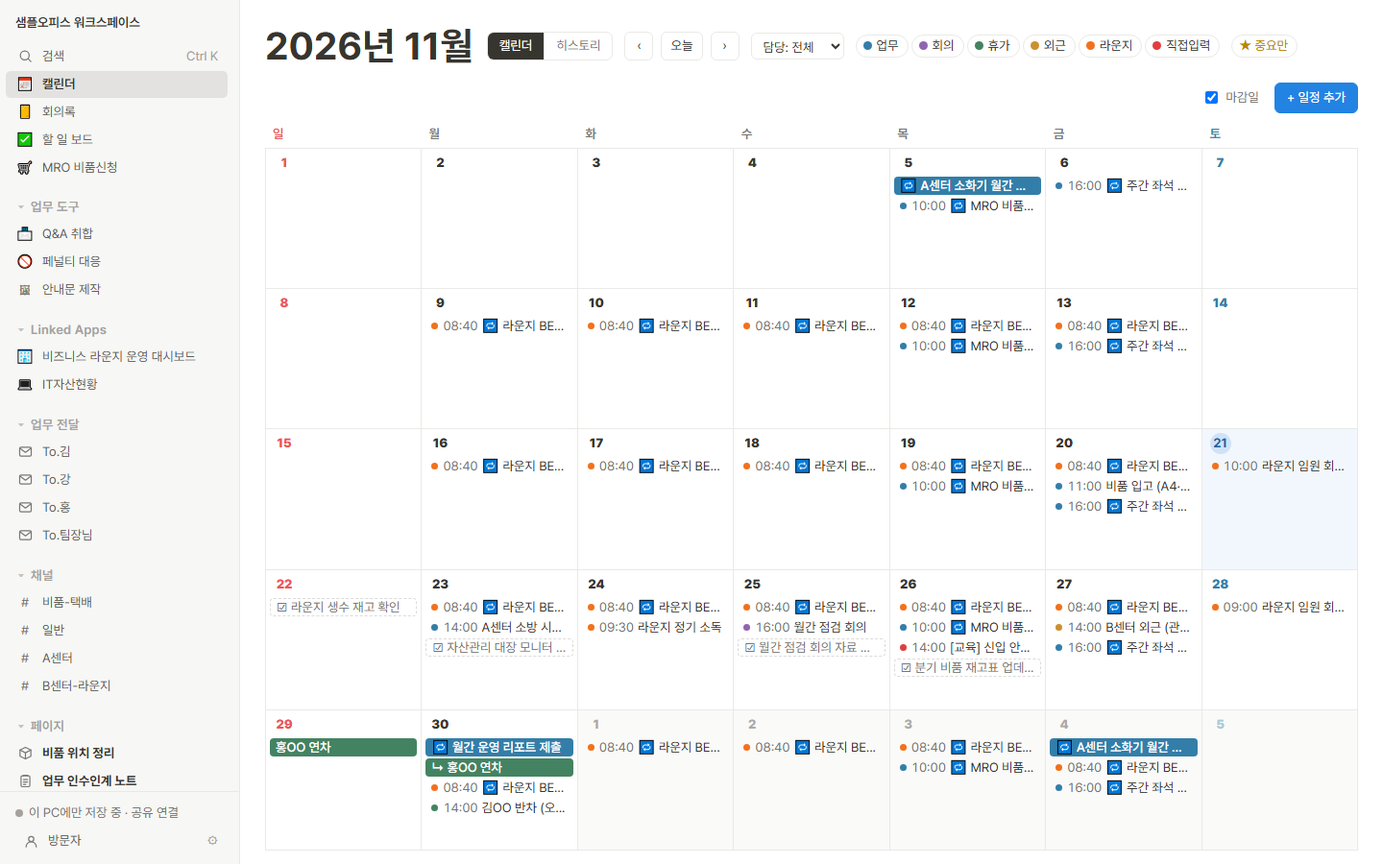
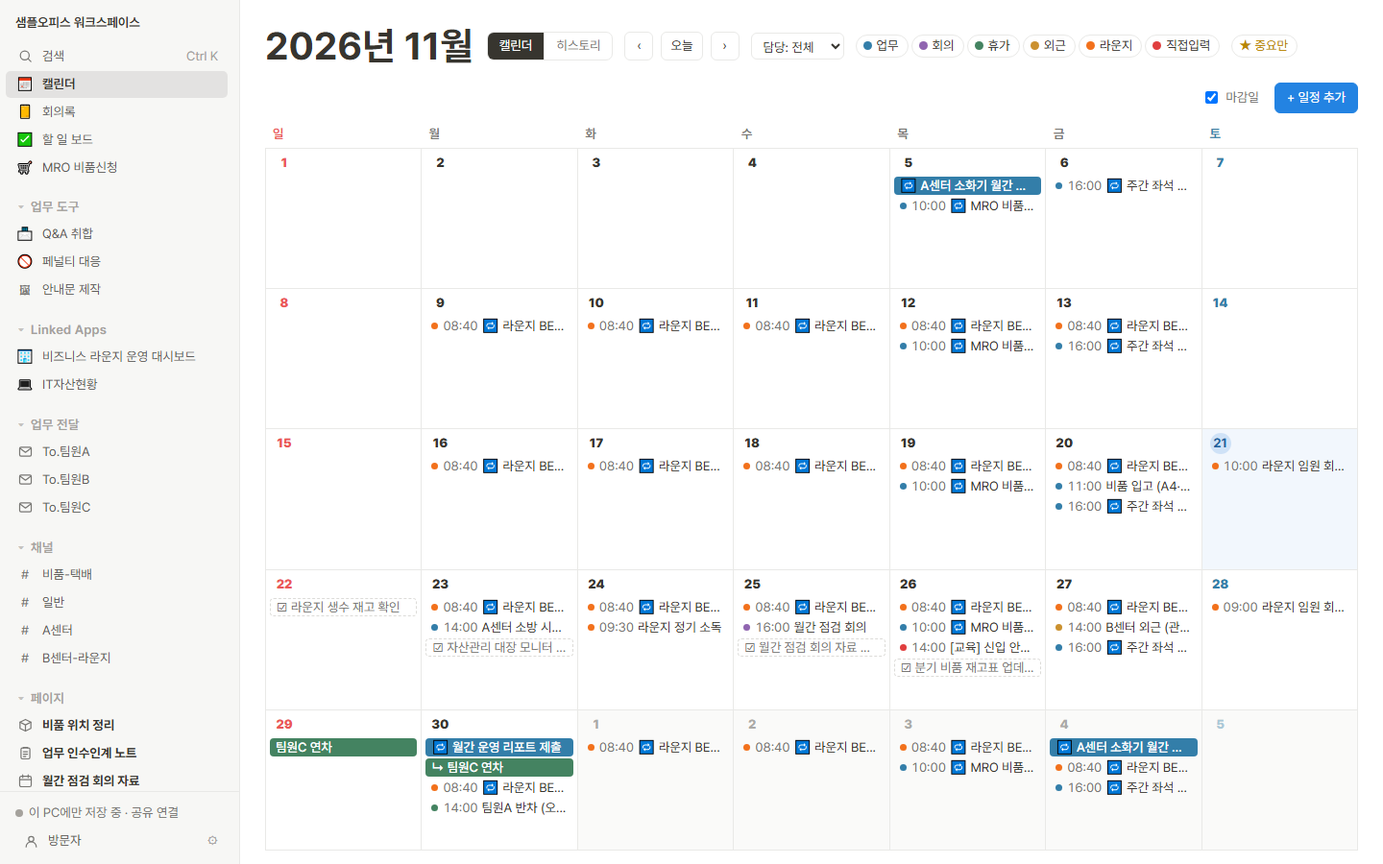
워크스페이스 데모: 업무 전달을 팀원A·B·C로, 공지 안내문 양식 빼고 캘린더 양식 색 바꾸기

diff --git a/works/workspace.html b/works/workspace.html
@@ -1147,7 +1147,7 @@ const DAY=864e5;
 function ymd(ts){const d=new Date(ts);return d.getFullYear()+'-'+String(d.getMonth()+1).padStart(2,'0')+'-'+String(d.getDate()).padStart(2,'0');}
 
 /* ---------- 데이터 모델 ---------- */
-const KEY='tw_db_v1';
+const KEY='tw_db_v2';   /* 예시 이름을 팀원A·B·C로 바꾸며 올림 — 예전 방문자의 저장본은 쓰지 않음 */
 const COLS=['channels','messages','acks','pages','tasks','spaces','notes','events','orders','qna','links','polls','pvotes','devnotes','reacts','pcomments','minutes','pens'];
 const TYPES=['text','h1','h2','bullet','num','todo','quote','callout','divider','img'];
 const SCHEMA={
@@ -1280,51 +1280,51 @@ function merge(local,remote){
 
 function seed(){
   const d=emptyDB(), t=now();
-  d.meta={wsName:'샘플오피스 워크스페이스',members:['김OO','홍OO','박팀장'],u:1};
+  d.meta={wsName:'샘플오피스 워크스페이스',members:['팀원A','팀원C','팀원D'],u:1};
   const ch=(id,name,desc)=>({id,name,desc,u:1});
   d.channels=[ch('smp_c1','일반','팀 전체 대화와 공지'),ch('smp_c2','A센터','A센터 공유오피스 운영'),ch('smp_c3','B센터-라운지','비즈니스 라운지 운영')];
   const msg=(id,c,a,text,ago,pinned)=>({id,ch:c,author:a,text,ts:t-ago,u:t-ago,pinned:!!pinned,edited:false});
   d.messages=[
-    msg('smp_m1','smp_c1','박팀장','이번 주 금요일 오후 4시에 월간 점검 회의 있습니다.\n각자 이번 달 이슈 1~2개씩 정리해 주세요.',2*DAY+36e5,true),
-    msg('smp_m2','smp_c1','김OO','네 팀장님, 정리해서 회의 전에 이 채널에 올리겠습니다.',2*DAY),
-    msg('smp_m3','smp_c2','홍OO','2번 룸 112번 좌석 모니터 전원 불량 접수됐습니다. 오늘 오후에 교체할게요.',DAY+54e5),
-    msg('smp_m4','smp_c2','홍OO','교체 완료했습니다. 기존 모니터는 창고 B 선반에 보관해 뒀어요.',DAY),
-    msg('smp_m5','smp_c3','김OO','내일 10시 대회의실 예약 건, 생수 12병 추가 요청 들어왔습니다.',5*36e5),
-    msg('smp_m6','smp_c1','박팀장','공유 폴더 경로가 바뀌었으니 다들 즐겨찾기 다시 잡아 주세요.',2*36e5,true)
+    msg('smp_m1','smp_c1','팀원D','이번 주 금요일 오후 4시에 월간 점검 회의 있습니다.\n각자 이번 달 이슈 1~2개씩 정리해 주세요.',2*DAY+36e5,true),
+    msg('smp_m2','smp_c1','팀원A','네, 정리해서 회의 전에 이 채널에 올리겠습니다.',2*DAY),
+    msg('smp_m3','smp_c2','팀원C','2번 룸 112번 좌석 모니터 전원 불량 접수됐습니다. 오늘 오후에 교체할게요.',DAY+54e5),
+    msg('smp_m4','smp_c2','팀원C','교체 완료했습니다. 기존 모니터는 창고 B 선반에 보관해 뒀어요.',DAY),
+    msg('smp_m5','smp_c3','팀원A','내일 10시 대회의실 예약 건, 생수 12병 추가 요청 들어왔습니다.',5*36e5),
+    msg('smp_m6','smp_c1','팀원D','공유 폴더 경로가 바뀌었으니 다들 즐겨찾기 다시 잡아 주세요.',2*36e5,true)
   ];
-  d.acks=[{id:'smp_k1',msg:'smp_m1',user:'김OO',on:true,u:t-2*DAY},{id:'smp_k2',msg:'smp_m1',user:'홍OO',on:true,u:t-2*DAY}];
+  d.acks=[{id:'smp_k1',msg:'smp_m1',user:'팀원A',on:true,u:t-2*DAY},{id:'smp_k2',msg:'smp_m1',user:'팀원C',on:true,u:t-2*DAY}];
   const bl=(ty,text,done)=>({id:uid(),t:ty,text,done:!!done});
   d.pages=[
-    {id:'smp_p1',title:'업무 인수인계 노트',icon:'📋',by:'김OO',u:t-DAY,blocks:[
+    {id:'smp_p1',title:'업무 인수인계 노트',icon:'📋',by:'팀원A',u:t-DAY,blocks:[
       bl('callout','자리를 비울 때 이 페이지에 진행 중인 일을 적어 두세요.'),
       bl('h2','매일 하는 일'),bl('todo','오전 9시 좌석 예약 현황 확인',true),bl('todo','라운지 BEFORE 체크리스트'),bl('todo','택배·우편물 수령 대장 정리'),
       bl('h2','이번 주 이슈'),bl('bullet','2번 룸 모니터 교체 완료 (창고 B 보관)'),bl('bullet','금요일 월간 점검 회의 자료 준비'),bl('text','')]},
-    {id:'smp_p2',title:'비품 위치 정리',icon:'📦',by:'홍OO',u:t-3*DAY,blocks:[
+    {id:'smp_p2',title:'비품 위치 정리',icon:'📦',by:'팀원C',u:t-3*DAY,blocks:[
       bl('text','자주 찾는 비품 위치를 적어 둡니다.'),bl('num','A4 용지 — 탕비실 하단 수납장'),bl('num','멀티탭·케이블 — 창고 B 2번 선반'),
       bl('num','명함 용지 — 사무실 캐비닛 3번'),bl('divider',''),bl('quote','위치가 바뀌면 바로 고쳐 주세요.')]}
   ];
   d.tasks=[
-    {id:'smp_t1',title:'월간 점검 회의 자료 준비',status:'doing',assignee:'김OO',due:ymd(t+3*DAY),note:'이번 달 이슈 1~2개 정리',by:'박팀장',ord:1,u:t-DAY},
-    {id:'smp_t2',title:'2번 룸 모니터 교체',status:'done',assignee:'홍OO',due:ymd(t-DAY),note:'',by:'홍OO',ord:2,u:t-DAY},
-    {id:'smp_t3',title:'라운지 생수 재고 확인',status:'todo',assignee:'',due:ymd(t+DAY),note:'내일 대회의실 예약 건 생수 12병',by:'김OO',ord:3,u:t-5*36e5},
-    {id:'smp_t4',title:'다음 주 소방 점검 일정 협의',status:'todo',assignee:'',due:ymd(t+2*DAY),note:'관리사무소와 일정 잡고 결과 공유 부탁드립니다.',by:'박팀장',ord:4,at:t-3*36e5,u:t-3*36e5,sp:'sp_kang'},
-    {id:'smp_t5',title:'라운지 비품 발주 목록 정리',status:'doing',assignee:'김OO',due:ymd(t+DAY),note:'생수, 종이컵, 다과 위주로 정리해 주세요.',by:'홍OO',ord:5,at:t-DAY,u:t-20*36e5,sp:'sp_kim',ackAt:t-22*36e5,ackBy:'김OO'},
-    {id:'smp_t6',title:'A센터 2번 룸 냉난방 민원 확인',status:'todo',assignee:'홍OO',due:ymd(t),note:'오전에 덥다는 문의가 두 건 들어왔습니다.',by:'박팀장',ord:6,at:t-36e5,u:t-36e5,sp:'sp_hong',prio:true}
+    {id:'smp_t1',title:'월간 점검 회의 자료 준비',status:'doing',assignee:'팀원A',due:ymd(t+3*DAY),note:'이번 달 이슈 1~2개 정리',by:'팀원D',ord:1,u:t-DAY},
+    {id:'smp_t2',title:'2번 룸 모니터 교체',status:'done',assignee:'팀원C',due:ymd(t-DAY),note:'',by:'팀원C',ord:2,u:t-DAY},
+    {id:'smp_t3',title:'라운지 생수 재고 확인',status:'todo',assignee:'',due:ymd(t+DAY),note:'내일 대회의실 예약 건 생수 12병',by:'팀원A',ord:3,u:t-5*36e5},
+    {id:'smp_t4',title:'다음 주 소방 점검 일정 협의',status:'todo',assignee:'',due:ymd(t+2*DAY),note:'관리사무소와 일정 잡고 결과 공유 부탁드립니다.',by:'팀원D',ord:4,at:t-3*36e5,u:t-3*36e5,sp:'sp_kang'},
+    {id:'smp_t5',title:'라운지 비품 발주 목록 정리',status:'doing',assignee:'팀원A',due:ymd(t+DAY),note:'생수, 종이컵, 다과 위주로 정리해 주세요.',by:'팀원C',ord:5,at:t-DAY,u:t-20*36e5,sp:'sp_kim',ackAt:t-22*36e5,ackBy:'팀원A'},
+    {id:'smp_t6',title:'A센터 2번 룸 냉난방 민원 확인',status:'todo',assignee:'팀원C',due:ymd(t),note:'오전에 덥다는 문의가 두 건 들어왔습니다.',by:'팀원D',ord:6,at:t-36e5,u:t-36e5,sp:'sp_hong',prio:true}
   ];
-  d.notes=[{id:'smp_n1',task:'smp_t5',author:'김OO',text:'내일 오전까지 정리해서 올릴게요.',ts:t-20*36e5,u:t-20*36e5}];
+  d.notes=[{id:'smp_n1',task:'smp_t5',author:'팀원A',text:'내일 오전까지 정리해서 올릴게요.',ts:t-20*36e5,u:t-20*36e5}];
   const E=(id,off,title,cat,time,etime,len,by)=>({id,date:ymd(t+off*DAY),end:len?ymd(t+(off+len)*DAY):'',time:time||'',etime:etime||'',title,cat,note:'',by,u:t-DAY});
-  d.events=[E('smp_e1',0,'라운지 대회의실 임원 회의 지원','meet','10:00','12:00',0,'김OO'),E('smp_e2',2,'A센터 소방 시설 점검','gen','14:00','',0,'박팀장'),
-    E('smp_e3',4,'월간 점검 회의','meet','16:00','17:00',0,'박팀장'),E('smp_e4',8,'홍OO 연차','off','','',1,'홍OO'),E('smp_e5',-3,'비품 입고','gen','11:00','',0,'김OO')];
+  d.events=[E('smp_e1',0,'라운지 대회의실 임원 회의 지원','meet','10:00','12:00',0,'팀원A'),E('smp_e2',2,'A센터 소방 시설 점검','gen','14:00','',0,'팀원D'),
+    E('smp_e3',4,'월간 점검 회의','meet','16:00','17:00',0,'팀원D'),E('smp_e4',8,'팀원C 연차','off','','',1,'팀원C'),E('smp_e5',-3,'비품 입고','gen','11:00','',0,'팀원A')];
   const O=(id,item,spec,code,qty,unit,price,site,need,by,ago,st,extra)=>({id,item,spec,code,qty,unit,price,site,need:need==null?'':ymd(t+need*DAY),reason:'',by,at:t-ago,u:t-ago,status:st,appBy:'',appAt:0,ordNo:'',ordAt:0,recvAt:0,rejNote:'',...(extra||{})});
   d.orders=[
-    O('smp_o1','생수 500ml','24입','','5','박스',9800,'B센터 라운지',3,'김OO',3*36e5,'req'),
-    O('smp_o2','A4 복사용지','75g 2500매','','2','박스',24000,'A센터',2,'홍OO',DAY,'ok',{appBy:'박팀장',appAt:t-20*36e5}),
-    O('smp_o3','종이컵','6.5oz 1000입','','1','박스',15000,'공통',null,'김OO',4*DAY,'ord',{appBy:'박팀장',appAt:t-3*DAY,ordNo:'MRO-2410-0153',ordAt:t-3*DAY}),
-    O('smp_o4','멀티탭','4구 3m','','6','개',8900,'A센터',null,'홍OO',9*DAY,'recv',{appBy:'박팀장',appAt:t-8*DAY,ordNo:'MRO-2410-0098',ordAt:t-8*DAY,recvAt:t-5*DAY})];
+    O('smp_o1','생수 500ml','24입','','5','박스',9800,'B센터 라운지',3,'팀원A',3*36e5,'req'),
+    O('smp_o2','A4 복사용지','75g 2500매','','2','박스',24000,'A센터',2,'팀원C',DAY,'ok',{appBy:'팀원D',appAt:t-20*36e5}),
+    O('smp_o3','종이컵','6.5oz 1000입','','1','박스',15000,'공통',null,'팀원A',4*DAY,'ord',{appBy:'팀원D',appAt:t-3*DAY,ordNo:'MRO-2410-0153',ordAt:t-3*DAY}),
+    O('smp_o4','멀티탭','4구 3m','','6','개',8900,'A센터',null,'팀원C',9*DAY,'recv',{appBy:'팀원D',appAt:t-8*DAY,ordNo:'MRO-2410-0098',ordAt:t-8*DAY,recvAt:t-5*DAY})];
   d.spaces=DEFAULT_SPACES();
   return d;
 }
-const DEFAULT_SPACES=()=>[{id:'sp_kim',label:'김',owner:'',ord:1,u:1},{id:'sp_kang',label:'강',owner:'',ord:2,u:1},{id:'sp_hong',label:'홍',owner:'',ord:3,u:1}];
+const DEFAULT_SPACES=()=>[{id:'sp_kim',label:'팀원A',owner:'',ord:1,u:1},{id:'sp_kang',label:'팀원B',owner:'',ord:2,u:1},{id:'sp_hong',label:'팀원C',owner:'',ord:3,u:1}];
 function loadLocal(){ try{const s=localStorage.getItem(KEY); if(s) return clean(JSON.parse(s));}catch(e){} return null; }
 // 공유 파일을 쓰는 PC는 브라우저에 전체 사본을 두지 않는다 (아직 공유 파일에 못 올린 변경분만 임시 보관 → 올리고 나면 지움)
 const sharedMode=()=>{ try{ return localStorage.getItem('tw_sharedMode')==='true'; }catch(e){ return false; } };
@@ -1668,8 +1668,8 @@ async function reconnect(){
 /* ---------- 공통 변경 ---------- */
 function commit(){ persist(); markDirty(); scheduleSync(300); refresh(); }
 function tomb(id){ DB.deleted[id]=now(); }
-// 예시 데이터(smp_…)와 예시 팀원(김OO·홍OO·박팀장 중 실제로 합류·작성한 적 없는 이름)을 공유 데이터에서 지움 → 다른 PC에도 삭제가 전파됨
-const SAMPLE_MEMBERS=['김OO','홍OO','박팀장'];
+// 예시 데이터(smp_…)와 예시 팀원(팀원A·팀원C·팀원D 중 실제로 합류·작성한 적 없는 이름)을 공유 데이터에서 지움 → 다른 PC에도 삭제가 전파됨
+const SAMPLE_MEMBERS=['팀원A','팀원C','팀원D'];
 function purgeSamples(d){
   let ch=false; const t=now(); d.deleted=d.deleted||{};
   for(const c of COLS){ if(!Array.isArray(d[c])) continue; const keep=d[c].filter(r=>!(r&&typeof r.id==='string'&&r.id.startsWith('smp_')));
@@ -2543,7 +2543,7 @@ const WHEEL_COL=['#f7c6c5','#f9d9b8','#f6e7a8','#cfe8c9','#bfe0f2','#cdd3f5','#e
 let wheelSpin=null;
 function renderWheel(){
   const main=$('#main'); [...main.children].forEach(c=>{ if(!c.classList.contains('topbar')) c.remove(); });
-  const ta=h('textarea',{class:'inp wta',placeholder:'한 줄에 하나씩 입력하세요\n예)\n김OO\n홍OO\n박OO'}); ta.value=LS.get('wheelItems','');
+  const ta=h('textarea',{class:'inp wta',placeholder:'한 줄에 하나씩 입력하세요\n예)\n팀원A\n팀원C\n박OO'}); ta.value=LS.get('wheelItems','');
   const cv=h('canvas',{class:'wcv',width:'720',height:'720'}); const res=h('div',{class:'wres'}), hist=h('div',{class:'whist'});
   let rot=LS.get('wheelRot',0)||0;
   const items=()=>ta.value.split('\n').map(x=>x.trim()).filter(Boolean).slice(0,40);
@@ -2577,7 +2577,7 @@ function renderWheel(){
 let ladder=null;
 function renderLadder(){
   const main=$('#main'); [...main.children].forEach(c=>{ if(!c.classList.contains('topbar')) c.remove(); });
-  const tp=h('textarea',{class:'inp lta',placeholder:'참가자 (한 줄에 한 명)\n예)\n김OO\n홍OO\n박OO'}); tp.value=LS.get('ladP','');
+  const tp=h('textarea',{class:'inp lta',placeholder:'참가자 (한 줄에 한 명)\n예)\n팀원A\n팀원C\n박OO'}); tp.value=LS.get('ladP','');
   const tr=h('textarea',{class:'inp lta',placeholder:'결과 (한 줄에 하나, 비우면 「꽝」)\n예)\n커피 쏘기\n꽝\n꽝'}); tr.value=LS.get('ladR','');
   const stage=h('div',{class:'lstage'}), out=h('div',{class:'lout'});
   const P=()=>tp.value.split('\n').map(x=>x.trim()).filter(Boolean).slice(0,12);
@@ -3053,12 +3053,12 @@ function autoHolis(y,m){
 }
 
 /* ----- 색 ----- */
-const P={bg:'#5b97cf',brand:'#fff',card:'#f0eef0',title:'#12233f',sub:'#1d2433',line:'#3f6fae',office:'#3f6fae',officeTx:'#12233f',head:'#5b93cc',headTx:'#fff',
-  body:'#6a9fd4',grid:'#c4c2c4',sun:'#b5452f',sat:'#4a86c5',num:'#6b6b6b',pill:'#ef7f86',pillTx:'#fff',note:'#1d2433'};
+const P={bg:'#111318',brand:'#fff',card:'#ffffff',title:'#111318',sub:'#51555D',line:'#0A74FF',office:'#0A74FF',officeTx:'#111318',head:'#111318',headTx:'#fff',
+  body:'#F3F5F9',grid:'#E3E6EE',sun:'#E5484D',sat:'#0A74FF',num:'#8C93A3',pill:'#0A74FF',pillTx:'#fff',note:'#111318'};
 /* ===== 양식 1: 월간 운영 캘린더 ===== */
 const CAL={id:'cal',name:'월간 운영 캘린더',icon:'📅',
   def(){ const d=new Date(); d.setMonth(d.getMonth()+1); return {y:d.getFullYear(),m:d.getMonth()+1,brand:'샘플오피스',sub:'일정을 참고하시어 이용에 착오 없으시길 바라며, 원활한 이용을 위해 사전 확인 부탁드립니다.',
-    office:'A·B센터 공유오피스',sunday:'미운영',noteHead:'※ 공유오피스 미운영 일자 (공휴일, 패밀리 데이)',offs:[],hov:{}}; },
+    office:'A·B센터 공유오피스',sunday:'미운영',noteHead:'※ 공유오피스 미운영 일자 (공휴일·사내 휴무일)',offs:[],hov:{}}; },
   days(st){ return new Date(st.y,st.m,0).getDate(); },
   // 그 달에 실제로 표시할 휴무일 = 자동 공휴일(끈 것 제외·문구 고친 것 반영) + 직접 넣은 날(패밀리 데이 등)
   list(st){ const hov=st.hov||{};
@@ -3150,112 +3150,8 @@ const CAL={id:'cal',name:'월간 운영 캘린더',icon:'📅',
   }};
 const holiYears=()=>[...new Set(Object.keys(HOLI).map(k=>+k.slice(0,4)))];   // HOLI는 이 코드보다 뒤에 정의되므로 쓸 때 계산
 
-/* ===== 공지 안내문 기본 문구 (안내 종류별) ===== */
-const GV={dark:['기본','#111'],blue:['파랑','#2033c8'],red:['빨강','#e8261d']};
-const GEN_PRE=[
- ['elec','전기설비 안전진단',{title:'전기설비 안전진단 실시 안내',intro:'○○타워 전기설비 법정 검사에 따른\n정전 작업으로 *B센터 공유오피스 미운영 안내* 드립니다.',
-   rows:[['일시','2026.09.19(토)\n*건물 전층 정전 작업 예정'],['범위','○○타워 건물 전체','blue'],['주관','건물 시설팀'],['기타 문의','건물 지원센터 (02-000-0000)']]}],
- ['pipe','배관 공사',{title:'배관 공사 안내',intro:'건물 배관 공사로 인해\n*공사 시간 동안 일부 이용이 제한*됨을 안내드립니다.',
-   rows:[['일시','○○○○.○○.○○(○) ○○:○○ ~ ○○:○○'],['범위','○층 ○○ 구역','blue'],['유의 사항','작업 중 소음 및 일시 단수가 발생할 수 있습니다'],['기타 문의','○○ (○○-○○○○-○○○○)']]}],
- ['lights','소등의 날',{title:'소등의 날 운영 안내',intro:'에너지 절약을 위한 소등의 날 운영으로\n*지정 시간 동안 조명이 소등*됩니다.',
-   rows:[['일시','○○○○.○○.○○(○)'],['소등 시간','○○:○○ ~ ○○:○○','blue'],['협조 사항','퇴실 시 개인 조명과 전원을 꺼 주시기 바랍니다'],['기타 문의','○○ (○○-○○○○-○○○○)']]}],
- ['park','주차장 이용 제한',{title:'주차장 이용 제한 안내',intro:'주차장 작업으로 인해\n*작업 시간 동안 주차장 이용이 제한*됩니다.',
-   rows:[['일시','○○○○.○○.○○(○) ○○:○○ ~ ○○:○○'],['제한 구역','지하 ○층 주차장 전체','blue'],['대체 주차','○○ 주차장 이용 부탁드립니다'],['기타 문의','○○ (○○-○○○○-○○○○)']]}],
- ['fire','소방시설 작동점검',{title:'소방시설 작동점검 실시 안내',intro:'소방시설 설치 및 관리에 관한 법률에 따른\n*소방시설 작동점검*을 실시합니다.',
-   rows:[['일시','○○○○.○○.○○(○) ○○:○○ ~ ○○:○○'],['범위','○○ 건물 전체','blue'],['유의 사항','점검 중 경보·안내 방송이 울릴 수 있으니\n놀라지 마시고 안내에 따라 주시기 바랍니다'],['주관','○○ 시설팀'],['기타 문의','○○ (○○-○○○○-○○○○)']]}],
- ['firelaw','법정 소방시설 점검',{title:'법정 소방시설 점검 안내',intro:'소방시설 설치 및 관리에 관한 법률에 따른\n*법정 소방시설 종합점검*을 실시합니다.',
-   rows:[['일시','○○○○.○○.○○(○) ~ ○○.○○(○)'],['점검 내용','소화설비·경보설비·피난설비 등 소방시설 전반','blue'],['유의 사항','점검 중 경보·안내 방송이 울릴 수 있으며\n점검자가 사무 공간에 출입할 수 있습니다'],['주관','○○ 시설팀'],['기타 문의','○○ (○○-○○○○-○○○○)']]}],
- ['water','물탱크 청소 작업',{title:'물탱크 청소 작업 안내',intro:'위생적인 물 공급을 위한 물탱크 청소로\n*작업 시간 동안 단수*될 예정입니다.',
-   rows:[['일시','○○○○.○○.○○(○) ○○:○○ ~ ○○:○○'],['단수 범위','○○ 건물 전체','blue'],['유의 사항','청소 후 일시적으로 탁한 물이 나올 수 있으니\n잠시 흘려보낸 뒤 사용해 주시기 바랍니다'],['기타 문의','○○ (○○-○○○○-○○○○)']]}],
- ['waterlaw','법정 물탱크 청소',{title:'법정 물탱크 청소 안내',intro:'수도법에 따른 법정 저수조(물탱크) 청소로\n*작업 시간 동안 단수*될 예정입니다.',
-   rows:[['일시','○○○○.○○.○○(○) ○○:○○ ~ ○○:○○'],['단수 범위','○○ 건물 전체','blue'],['유의 사항','청소 후 일시적으로 탁한 물이 나올 수 있으니\n잠시 흘려보낸 뒤 사용해 주시기 바랍니다'],['주관','○○ 시설팀'],['기타 문의','○○ (○○-○○○○-○○○○)']]}],
- ['earth','지구의 날 소등행사',{title:'지구의 날 소등 행사 안내',intro:'지구의 날을 맞아 진행되는 소등 행사에 참여하여\n*행사 시간 동안 조명이 소등*됩니다.',
-   rows:[['일시','○○○○.04.22(○) 20:00 ~ 20:10'],['범위','공유오피스 전체 조명','blue'],['협조 사항','행사 시간에는 개인 조명 사용을 자제해 주시기 바랍니다'],['기타 문의','○○ (○○-○○○○-○○○○)']]}],
- ['blank','직접 작성',{title:'○○ 안내',intro:'○○ 관련하여\n*○○*을(를) 안내드립니다.',rows:[['일시','○○○○.○○.○○(○)'],['내용',''],['기타 문의','']]}],
-];
-function genRowsEditor(st,rl,upd){
-  const drawRows=()=>{ rl.textContent=''; st.rows.forEach((r,i)=>{
-        const k=h('input',{class:'inp',placeholder:'항목'}); k.value=r.k; k.addEventListener('input',()=>{ r.k=k.value; upd(); });
-        const v=h('textarea',{class:'inp',rows:String(Math.max(1,String(r.v||'').split('\n').length)),placeholder:'내용 (Enter로 줄바꿈)',style:'resize:vertical;line-height:1.5'}); v.value=r.v;
-        v.addEventListener('input',()=>{ r.v=v.value; v.rows=Math.max(1,v.value.split('\n').length); upd(); });
-        const c=h('select',{class:'inp',title:'글자색'},Object.entries(GV).map(([kk,x])=>h('option',{value:kk},x[0]))); c.value=r.c||'dark'; c.addEventListener('change',()=>{ r.c=c.value; upd(); });
-        // 날짜 넣기: 달력에서 고르면 「2026.09.19(토)」 형식으로 첫 줄에
-        const dp=h('input',{type:'date',style:'position:absolute;opacity:0;width:1px;height:1px;pointer-events:none'});
-        dp.addEventListener('change',()=>{ if(!dp.value) return; const [yy,mm,dd]=dp.value.split('-'); const t=`${yy}.${mm}.${dd}(${DOW[new Date(+yy,mm-1,+dd).getDay()]})`; const L=String(r.v||'').split('\n'); L[0]=/^\s*\S*\(.\)/.test(L[0])?L[0].replace(/^\s*\S*\(.\)/,t):(L[0].trim()?t+' '+L[0].trim():t);   /* 앞의 날짜만 바꾸고 시간은 그대로 */ r.v=L.join('\n'); v.value=r.v; upd(); });
-        const db=h('button',{class:'ib',title:'날짜 고르기 (첫 줄에 넣기)',onclick:()=>{ try{ dp.showPicker(); }catch(e){ dp.click(); } }},'📅');
-        rl.append(h('div',{class:'genrow'},k,v,h('div',{class:'genops'},c,h('span',{style:'position:relative'},db,dp),
-          i?h('button',{class:'ib',title:'위로',onclick:()=>{ [st.rows[i-1],st.rows[i]]=[st.rows[i],st.rows[i-1]]; drawRows(); upd(); }},'↑'):null,
-          h('button',{class:'ib',title:'빼기',onclick:()=>{ st.rows.splice(i,1); drawRows(); upd(); }},'×')))); }); };
-  rl._draw=drawRows; drawRows();
-}
-/* ===== 양식 2: 공지 안내문 (카드형) — 회색 머리 + 파란 바탕 카드 + (선택) 아래 걸이 안내판 ===== */
-// 안내 종류별 기본 내용: 첨부 양식(법정 물탱크 청소) + 아래 GEN_PRE를 카드형으로 옮긴 것. 안내판(note)에는 핵심 안내 문구
-const HANG_SUB={fire:'[소방시설법] 소방시설 등의 자체점검(작동점검) 규정에 따른 정기 점검',firelaw:'[소방시설법] 소방시설 등의 자체점검(종합점검) 규정에 따른 정기 점검',
-  waterlaw:'[수도법] 제 33조 및 수도시설 청소 및 위생 관리 등에 관한 규칙에 의거한 정기 청소'};
-const HANG_PRE=[
- ['waterlaw','법정 물탱크 청소',{title:"서울 공유오피스 '26년 하반기 법정 물탱크 청소 안내",sub:HANG_SUB.waterlaw,
-   rows:[['일시','2026.10.10(토) 08:00~17:00'],['내용','고가 수조 및 저수조(물탱크) 청소 작업 진행'],['영향','화장실, 캔틴, 정수기 일부 사용 제한될 수 있음'],['문의','건물 지원센터(02-000-0000)']],
-   note:'물탱크 청소 중 *단수 및 소량의 녹물*이 일시적으로\n발생 할 수 있으니 유의하여 주시길 바랍니다.'}],
- ...GEN_PRE.filter(x=>x[0]!=='waterlaw').map(([k,n,p])=>[k,n,{title:p.title,sub:HANG_SUB[k]||'',rows:p.rows,note:p.intro}]),
-];
-const hangFrom=k=>{ const p=(HANG_PRE.find(x=>x[0]===k)||HANG_PRE[0])[2]; return {title:p.title,sub:p.sub,rows:p.rows.map(r=>({k:r[0],v:r[1],c:r[2]||'dark'})),note:p.note}; };
-const HANG={id:'hang',name:'공지 안내문',icon:'📢',
-  def(){ return {pre:'waterlaw',...hangFrom('waterlaw')}; },
-  draw(st){
-    const W=730, S=2, BLUE='#3a55d0', BG='#5b6fd6';
-    const rows=(st.rows||[]).filter(r=>(r.k||'').trim()||(r.v||'').trim());
-    const VS=sc(st,'value'), LS2=28*VS, need=r=>Math.max(75,30*VS+20)+(Math.max(1,String(r.v||'').split('\n').length)-1)*LS2;
-    const RH=Math.max(75,...rows.map(need)), GAP=29;
-    const TS=sc(st,'title'), SS=sc(st,'sub'), subL=String(st.sub||'').trim()?1:0, headH=Math.round((subL?145:110)+(TS-1)*30+(subL?(SS-1)*17:0));
-    const cardT=headH+50, rowT=cardT+31, cardB=rowT+rows.length*(RH+GAP)-GAP+40;
-    const noteL=String(st.note||'').split('\n').filter(x=>x.trim());
-    const NS=sc(st,'note'), NLH=36*NS, noteT=cardB+57, noteH=noteL.length?Math.max(100,noteL.length*NLH+64):0;
-    const H=(noteL.length?noteT+noteH:cardB)+45;
-    const cv=h('canvas',{width:String(W*S),height:String(H*S)}), g=cv.getContext('2d'); g.scale(S,S);
-    g.fillStyle='#e9edf2'; g.fillRect(0,0,W,headH); g.fillStyle=BG; g.fillRect(0,headH,W,H-headH);
-    g.textAlign='center'; g.textBaseline='middle';
-    g.fillStyle='#2f55d4'; fitText(g,st.title||'',W-40,Math.round(30*TS),800); g.fillText(st.title||'',W/2,subL?52*(1+(TS-1)*.6):headH/2);
-    if(subL){ g.fillStyle='#111'; fitText(g,st.sub,W-40,Math.round(17*SS),600); g.fillText(st.sub,W/2,headH-49*(1+(SS-1)*.5)); }
-    const card=(x,y,w,hh)=>{ g.save(); g.shadowColor='rgba(0,0,0,.18)'; g.shadowBlur=8; g.shadowOffsetY=3; rr(g,x,y,w,hh,18); g.fillStyle='#fff'; g.fill(); g.restore(); };
-    card(40,cardT,650,cardB-cardT);
-    rows.forEach((r,i)=>{ const y=rowT+i*(RH+GAP);
-      rr(g,74,y+(RH-75)/2,91,75,10); g.fillStyle=BLUE; g.fill(); g.fillStyle='#fff'; g.textAlign='center'; fitText(g,r.k||'',80,Math.round(20*sc(st,'label')),600); g.fillText(r.k||'',119.5,y+RH/2+1);
-      rr(g,190,y,485,RH,14); g.fillStyle='#fff'; g.fill(); g.strokeStyle='#e6e6dc'; g.lineWidth=2; g.stroke();
-      const ls=String(r.v||'').split('\n'); g.textAlign='left'; g.fillStyle=r.c==='blue'?'#2f55d4':r.c==='red'?'#e8261d':'#111';
-      ls.forEach((l,j)=>{ fitText(g,l,455,Math.round(20*VS),500); g.fillText(l,206,y+RH/2+(j-(ls.length-1)/2)*LS2+1); }); });
-    if(noteL.length){
-      card(40,noteT,650,noteH);
-      for(const x of [76,652]){ const y1=cardB+20, y2=noteT+36;   /* 걸이: 위아래 검은 고리 + 회색 막대 (안내판 위에 겹쳐 그림) */
-        g.fillStyle='#111'; for(const y of [y1,y2]){ g.beginPath(); g.arc(x,y,10,0,Math.PI*2); g.fill(); }
-        g.fillStyle='#c4c4c4'; rr(g,x-7,y1+2,14,y2-y1-4,7); g.fill(); }
-      noteL.forEach((line,i)=>{ const segs=line.split('*').map((t,j)=>({t,red:j%2===1})).filter(s=>s.t);
-        let size=Math.round(19*NS); const meas=()=>{ g.font=`700 ${size}px ${FONT}`; return segs.reduce((a,s)=>a+g.measureText(s.t).width,0); };
-        while(meas()>590&&size>11) size--; let x=W/2-meas()/2; g.textAlign='left';
-        for(const s of segs){ g.fillStyle=s.red?'#e8261d':'#111'; g.fillText(s.t,x,noteT+noteH/2+(i-(noteL.length-1)/2)*NLH); x+=g.measureText(s.t).width; } });
-    }
-    return cv;
-  },
-  form(st,upd){
-    // 항목 입력은 genRowsEditor 공용
-    const box=h('div',{class:'ntcform'});
-    const txt=(k,ph)=>{ const i=h('input',{class:'inp',placeholder:ph||''}); i.value=st[k]||''; i.addEventListener('input',()=>{ st[k]=i.value; upd(); }); return i; };
-    const area=(k,ph,n)=>{ const i=h('textarea',{class:'inp',rows:String(n||2),placeholder:ph||'',style:'resize:vertical;line-height:1.5'}); i.value=st[k]||''; i.addEventListener('input',()=>{ st[k]=i.value; upd(); }); return i; };
-    const pre=h('select',{class:'inp',style:'width:auto'},HANG_PRE.map(([k,n])=>h('option',{value:k},n))); pre.value=HANG_PRE.some(x=>x[0]===st.pre)?st.pre:'waterlaw';
-    pre.addEventListener('change',async()=>{ if(!await confirmBox('안내 종류 바꾸기',`「${HANG_PRE.find(x=>x[0]===pre.value)[1]}」 기본 내용으로 바꿉니다.\n지금 입력한 내용은 사라집니다.`,'바꾸기')){ pre.value=st.pre; return; }
-      Object.assign(st,hangFrom(pre.value),{pre:pre.value}); upd(); NTC.render(); });
-    const rl=h('div',{class:'genrows'}); genRowsEditor(st,rl,upd);
-    box.append(h('div',{class:'ntcrow'},h('label',null,'안내 종류',pre)),
-      h('div',{class:'hint',style:'margin-top:4px'},'종류를 고르면 기본 문구가 채워집니다. ○○ 부분만 고쳐 쓰세요.'),
-      lblFs('제목 (파란 글씨)',st,'title',upd),txt('title'),
-      lblFs('제목 아래 한 줄 (법 근거 등 · 비우면 숨김)',st,'sub',upd),txt('sub'),
-      h('div',{class:'ntchd'},h('span',{class:'lbl',style:'margin:0'},'항목'),h('span',{style:'flex:1'}),h('button',{class:'btn',onclick:()=>{ st.rows.push({k:'',v:'',c:'dark'}); rl._draw(); upd(); }},'+ 항목 추가')),
-      h('div',{class:'fsrow'},h('span',{class:'hint'},'왼쪽 이름'),fsCtl(st,'label',upd),h('span',{class:'hint',style:'margin-left:12px'},'오른쪽 내용'),fsCtl(st,'value',upd)),rl,
-      lblFs('아래 걸이 안내판 문구 (*별표로 감싸면* 빨간 글씨 · 비우면 안내판이 사라짐)',st,'note',upd),area('note','',3));
-    return box;
-  }};
-
-const NTC_TPL=[CAL,HANG];
-let cur=LS.get('ntcCur','cal'); if(cur==='gen') cur='hang'; /* 예전 표형 공지 양식은 카드형으로 통합 */ const states={};
+const NTC_TPL=[CAL];
+let cur=LS.get('ntcCur','cal'); if(!NTC_TPL.some(t=>t.id===cur)) cur='cal'; const states={};
 const stOf=id=>{ if(!states[id]){ const t=NTC_TPL.find(x=>x.id===id); states[id]={...t.def(),...(LS.get('ntc:'+id,{})||{})}; } return states[id]; };
 let rt=null;
 // 입력칸 : 미리보기 비율 (왼쪽 비율 30~80%, PC별 기억). 가운데 세로 막대를 끌어서 조절
@@ -4265,7 +4161,7 @@ function noteBody(t){ const n=String(t.note||''); const ti=String(t.title||'').t
   const L=n.split('\n'); if(L[0].trim()===ti){ L.shift(); while(L.length&&!L[0].trim()) L.shift(); } return L.join('\n').trim(); }
 function DIR_ST(t){ return t.status==='done'?['완료','s-done']:t.status==='doing'?['진행','s-doing']:t.ackAt?['확인함','s-ack']:['미확인','s-new']; }
 async function addSpace(){
-  const v=await askText('새 업무 전달 공간','받는 사람의 성 또는 이름 (예: 김, 박팀장)','',''); if(!v) return;
+  const v=await askText('새 업무 전달 공간','받는 사람의 성 또는 이름 (예: 김, 팀원D)','',''); if(!v) return;
   const sp={id:uid(),label:v.replace(/^to\.?/i,'').slice(0,20),owner:'',ord:now(),u:now()}; DB.spaces.push(sp); commit(); go({type:'sp',id:sp.id});
 }
 function spaceMenu(sp,anchor){
@@ -6207,18 +6103,18 @@ function exampleData(){
   const T=now(), D=DAY, H=36e5, X=uid().slice(-5), id=k=>'ex_'+X+'_'+k;
   const at=(d,hh=9,mm=0)=>{ const x=new Date(T+d*D); x.setHours(hh,mm,0,0); return Math.min(x.getTime(),T-1000); };
   const day=d=>ymd(T+d*D);
-  const me=ME||'방문자', K='김OO', G=me, Hn='홍OO', P='박팀장';
+  const me=ME||'방문자', K='팀원A', G=me, Hn='팀원C', P='팀원D';
   const ch={all:id('c1'),bd:id('c2'),sc:id('c3'),mro:id('c4')};
   const out={channels:[],messages:[],acks:[],pages:[],tasks:[],notes:[],events:[],orders:[],qna:[],spaces:[],links:[],polls:[],pvotes:[],devnotes:[],reacts:[],pcomments:[],minutes:[]};
   [['all','일반'],['bd','A센터'],['sc','B센터-라운지'],['mro','비품-택배']].forEach(([k,n])=>{ const ex=DB.channels.find(c=>c.name===n); if(ex) ch[k]=ex.id; else out.channels.push({id:ch[k],name:n,desc:'',u:T}); }); // 같은 이름 채널이 있으면 그대로 사용
   let mi=0; const msg=(c,a,text,d,hh,mm,pin,acks)=>{ const i=id('m'+(++mi)), t=at(d,hh,mm); out.messages.push({id:i,ch:ch[c],author:a,text,ts:t,u:T,pinned:!!pin,edited:false,att:[]}); (acks||[]).forEach(u=>out.acks.push({id:ackId(i,u),msg:i,user:u,on:true,u:T})); return i; };
   msg('all',P,'11월부터 MRO 비품은 「MRO 비품신청」 메모로 모아 주세요.\n매주 목요일 오전에 한 번에 주문하겠습니다.',-6,9,10,true,[K,G,Hn]);
-  msg('all',G,`@박팀장 네 확인했습니다. 기존 요청도 이번 주 안에 옮겨 둘게요.`,-6,9,32);
+  msg('all',G,`@팀원D 네 확인했습니다. 기존 요청도 이번 주 안에 옮겨 둘게요.`,-6,9,32);
   msg('all',P,'이번 주 금요일 16시 월간 점검 회의입니다. 이슈 1~2건씩 준비해 주세요.',-3,8,50,true,[K,G]);
   msg('all',K,'회의 자료는 「월간 점검 회의 자료」 페이지에 모아 두겠습니다.',-3,9,5);
   msg('bd',Hn,'2번 룸 112번 좌석 모니터 전원 불량 접수됐습니다. 오후에 교체할게요.',-2,10,20);
   msg('bd',Hn,'교체 완료했습니다. 기존 모니터는 창고 B 2번 선반에 보관해 뒀어요.',-2,15,40);
-  msg('bd',G,'@홍OO 고생하셨어요. 자산관리 대장에도 반영해 둘게요.',-2,15,52);
+  msg('bd',G,'@팀원C 고생하셨어요. 자산관리 대장에도 반영해 둘게요.',-2,15,52);
   msg('bd',Hn,`오늘 오전에 2번 룸 덥다는 문의가 2건 들어왔습니다. @${G.slice(0,1)} 관리사무소 확인 부탁드려요.`,0,10,5);
   msg('bd',K,'몰입형좌석(119~129) 예약률이 이번 주 많이 올랐네요. 다음 주 현황 보고 때 공유드릴게요.',0,11,30);
   msg('sc',K,'내일 10시 대회의실 임원 회의 건, 생수 12병 추가 요청 들어왔습니다.',-1,14,10);
@@ -6232,12 +6128,11 @@ function exampleData(){
   page('p2','비품 위치 정리','📦',Hn,[bl('text','자주 찾는 비품 위치입니다. 바뀌면 바로 고쳐 주세요.'),bl('num','A4 용지 — 탕비실 하단 수납장'),bl('num','멀티탭·케이블 — 창고 B 2번 선반'),bl('num','명함 용지 — 사무실 캐비닛 3번'),bl('num','예비 모니터 — 창고 B 2번 선반 (2대)'),bl('divider',''),bl('quote','분기마다 재고 점검: 1·4·7·10월 첫째 주')]);
   page('p3','월간 점검 회의 자료','🗓',K,[bl('h1','이번 달 이슈'),bl('h2','A센터'),bl('bullet','몰입형좌석 예약률 상승 — 좌석 추가 검토'),bl('bullet','2번 룸 냉난방 민원 2건'),bl('h2','B센터 라운지'),bl('bullet','임원 회의 지원 6건, 주차 도장 14건'),bl('bullet','QR 건의: 의자 높이 조절'),bl('h2','공통'),bl('todo','MRO 요청 메모로 일원화',true),bl('todo','소방 점검 일정 확정')]);
   page('p4','자주 묻는 문의 답변','💡',G,[bl('text','전화 문의가 많은 순서대로 정리했습니다.'),bl('h2','좌석 예약'),bl('bullet','예약 변경은 이용 30분 전까지 시스템에서 직접 가능'),bl('h2','주차'),bl('bullet','방문객 주차는 회의 종료 후 도장 확인'),bl('h2','분실물'),bl('bullet','안내데스크 보관 2주 후 총무팀 이관')]);
-  // To.○ 공간 (기본 공간이 없으면 만들고, 팀장님 공간 추가)
+  // To.○ 공간 (기본 공간이 없으면 만듦)
   const base=DEFAULT_SPACES(); for(const sp of base) if(!DB.spaces.some(x=>x.id===sp.id)) out.spaces.push({...sp,u:T});
-  const ldr=DB.spaces.find(x=>x.label==='팀장님')||{id:id('s1'),label:'팀장님',owner:P,ord:4,u:T}; if(!DB.spaces.includes(ldr)) out.spaces.push(ldr);
   let ti=0; const task=(title,status,asg,due,note,by,dc,sp,extra)=>{ const i=id('t'+(++ti)), t=at(dc,9,30); out.tasks.push({id:i,title,status,assignee:asg,due:due==null?'':day(due),note,by,ord:t,at:t,u:T,sp:sp||'',prio:false,ackAt:0,ackBy:'',doneAt:status==='done'?at(-1,17):0,att:[],calEv:'',...(extra||{})}); return i; };
   task('월간 점검 회의 자료 정리','doing',K,4,'이슈별로 페이지에 정리',P,-3);
-  task('2번 룸 모니터 교체','done',Hn,-2,'','홍OO',-2);
+  task('2번 룸 모니터 교체','done',Hn,-2,'','팀원C',-2);
   task('라운지 생수 재고 확인','todo','',1,'내일 대회의실 생수 12병',K,-1);
   task('자산관리 대장 모니터 이력 반영','todo',G,2,'112번 좌석 모니터 교체 건',G,-2);
   task('분기 비품 재고표 업데이트','doing',G,5,'창고 B 기준',P,-4);
@@ -6246,13 +6141,13 @@ function exampleData(){
   const t7=task('라운지 비품 발주 목록 정리','doing',K,1,'생수, 종이컵, 다과 위주로 정리해 주세요.',G,-1,'sp_kim',{ackAt:at(-1,10),ackBy:K});
   task('A센터 2번 룸 냉난방 민원 확인','todo',Hn,0,'오전에 덥다는 문의가 두 건 들어왔습니다.',P,0,'sp_hong',{prio:true});
   task('몰입형좌석 예약률 주간 보고','done',K,-1,'',P,-5,'sp_kim',{ackAt:at(-5,10),ackBy:K});
-  task('11월 휴가 일정 공유','todo',P,3,'팀원 연차 일정 캘린더에 반영 완료 — 확인 부탁드립니다.',G,0,ldr.id);
+  task('11월 휴가 일정 공유','todo',Hn,3,'팀원 연차 일정 캘린더에 반영 완료 — 확인 부탁드립니다.',G,0,'sp_hong');
   out.notes.push({id:id('n1'),task:t7,author:K,text:'내일 오전까지 정리해서 올릴게요.',ts:at(-1,13),u:T,att:[]},{id:id('n2'),task:t7,author:G,text:'다과는 지난달 수량 기준으로 부탁드려요.',ts:at(-1,14),u:T,att:[]});
   let ei=0; const ev=(title,cat,d,time,etime,len,by,note,more)=>out.events.push({id:id('e'+(++ei)),title,date:day(d),end:len?day(d+len):'',time:time||'',etime:etime||'',cat,ctag:'',note:note||'',by,u:T,rep:'',rdays:'',rmd:'',rshift:false,runtil:'',rskip:'',rtask:false,rasg:'',...(more||{})});
   ev('비품 입고 (A4·종이컵)','gen',-1,'11:00','',0,Hn); ev('라운지 임원 회의 지원','lounge',0,'10:00','12:00',0,K,'대회의실, 생수 12병');
   ev('A센터 소방 시설 점검','gen',2,'14:00','16:00',0,P); ev('월간 점검 회의','meet',4,'16:00','17:00',0,P,'이슈 1~2건씩 준비');
-  ev('라운지 정기 소독','lounge',3,'09:30','',0,G); ev('신입 안전 교육','etc',5,'14:00','15:00',0,P,'',{ctag:'교육'}); ev('홍OO 연차','off',8,'','',1,Hn);
-  ev('B센터 외근 (관리사무소 미팅)','out',6,'14:00','15:30',0,G); ev('라운지 임원 회의 지원','lounge',7,'09:00','11:00',0,K); ev('김OO 반차 (오후)','off',9,'14:00','18:00',0,K);
+  ev('라운지 정기 소독','lounge',3,'09:30','',0,G); ev('신입 안전 교육','etc',5,'14:00','15:00',0,P,'',{ctag:'교육'}); ev('팀원C 연차','off',8,'','',1,Hn);
+  ev('B센터 외근 (관리사무소 미팅)','out',6,'14:00','15:30',0,G); ev('라운지 임원 회의 지원','lounge',7,'09:00','11:00',0,K); ev('팀원A 반차 (오후)','off',9,'14:00','18:00',0,K);
   ev('라운지 BEFORE 점검','lounge',-14,'08:40','',0,G,'BEFORE 체크리스트 기준',{rep:'day',rtask:true,rasg:G});
   ev('주간 좌석 예약 현황 보고','gen',-17,'16:00','',0,P,'',{rep:'week',rdays:'5',rtask:true,rasg:K});
   ev('MRO 비품 주문','gen',-17,'10:00','',0,P,'비품신청 메모 모아서 MRO 몰 주문',{rep:'week',rdays:'4'});
@@ -6278,7 +6173,7 @@ function insertExample(){
   for(const c of COLS) if(c!=='spaces'){ for(const r of DB[c]) if(old(c,r)) tomb(r.id); DB[c]=DB[c].filter(r=>!old(c,r)); }
   const ex=exampleData();
   for(const c of Object.keys(ex)) for(const r of ex[c]){ delete DB.deleted[r.id]; const i=DB[c].findIndex(x=>x.id===r.id); if(i>=0) DB[c][i]=r; else DB[c].push(r); if(c==='pages') snap(r); }
-  ['김OO','홍OO','박팀장',ME].filter(Boolean).forEach(n=>addMember(n));
+  ['팀원A','팀원C','팀원D',ME].filter(Boolean).forEach(n=>addMember(n));
   genRecurringTasks(); commit(); renderMain();
   const n=Object.values(ex).reduce((s,a)=>s+a.length,0); toast(`예시 데이터 ${n}건을 넣었습니다`);
 }
@@ -6286,7 +6181,7 @@ async function clearSample(){ if(!await confirmBox('예시 데이터 지우기',
   const gone=(c,r)=>isSample(r.id)||(c==='tasks'&&/^rt_(ex_|smp)/.test(r.id))||(c==='acks'&&isSample(r.msg))||(c==='notes'&&isSample(r.task));
   for(const c of COLS) for(const r of DB[c]) if(gone(c,r)) tomb(r.id);
   for(const c of COLS) DB[c]=DB[c].filter(r=>!gone(c,r));
-  ['김OO','이OO','홍OO','박팀장'].forEach(n=>{ if(DB.meta.members.includes(n)&&n!==ME) removeMember(n); }); DB.meta.u=now();
+  ['팀원A','이OO','팀원C','팀원D'].forEach(n=>{ if(DB.meta.members.includes(n)&&n!==ME) removeMember(n); }); DB.meta.u=now();
   commit(); go({type:'home'}); }
 
 /* ---------- 전역 키 / 시작 ---------- */
@@ -6310,7 +6205,7 @@ window.addEventListener('storage',e=>{ if(e.key===KEY){ const d=loadLocal(); if(
   if(['총무팀 워크스페이스','우리팀 워크스페이스','E 워크센터 워크스페이스'].includes(DB.meta.wsName)){ DB.meta.wsName='샘플오피스 워크스페이스'; DB.meta.u=now(); persist(); markDirty(); renderSide(); }
   if(!LS.get('spInit',false)){ for(const sp of DEFAULT_SPACES()) if(!DB.spaces.some(x=>x.id===sp.id)&&!DB.deleted[sp.id]) DB.spaces.push(sp); LS.set('spInit',true); persist(); }
   renderSide(); renderMain(); drawFloats();
-  if(!LS.get('demoSeeded',false)){ insertExample(); LS.set('demoSeeded',true); }   // 처음 방문하면 예시 데이터를 채워 둡니다
+  if(!LS.get('demoSeeded2',false)){ insertExample(); LS.set('demoSeeded2',true); }   // 처음 방문하면 예시 데이터를 채워 둡니다
   // 굿모닝 브리핑 · 퇴근 전 리마인드: 시작 창(공유 폴더 연결)을 기다리지 않고 바로 시계를 돌림. 탭으로 돌아오거나 창을 누르면 바로 다시 확인
   setTimeout(gmTick,1500); setInterval(gmTick,20000); setTimeout(rmTick,2000); setInterval(rmTick,20000); document.addEventListener('visibilitychange',()=>{ if(document.visibilityState==='visible') rmTick(); });
   document.addEventListener('visibilitychange',()=>{ if(document.visibilityState==='visible') setTimeout(gmTick,300); }); window.addEventListener('focus',()=>setTimeout(gmTick,300));
